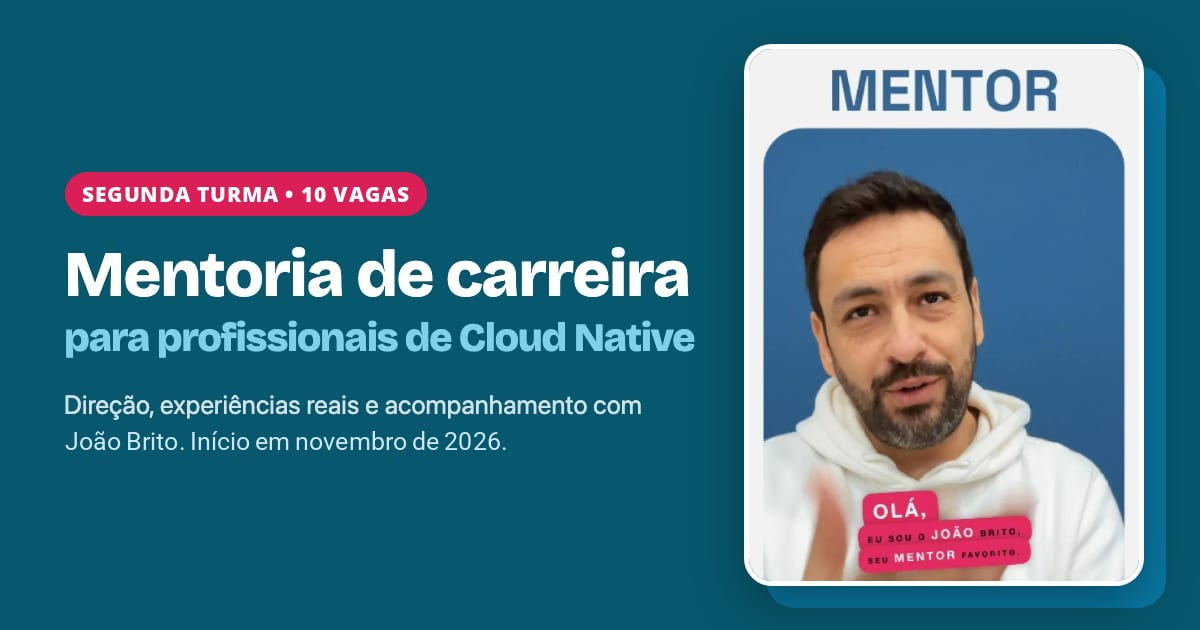
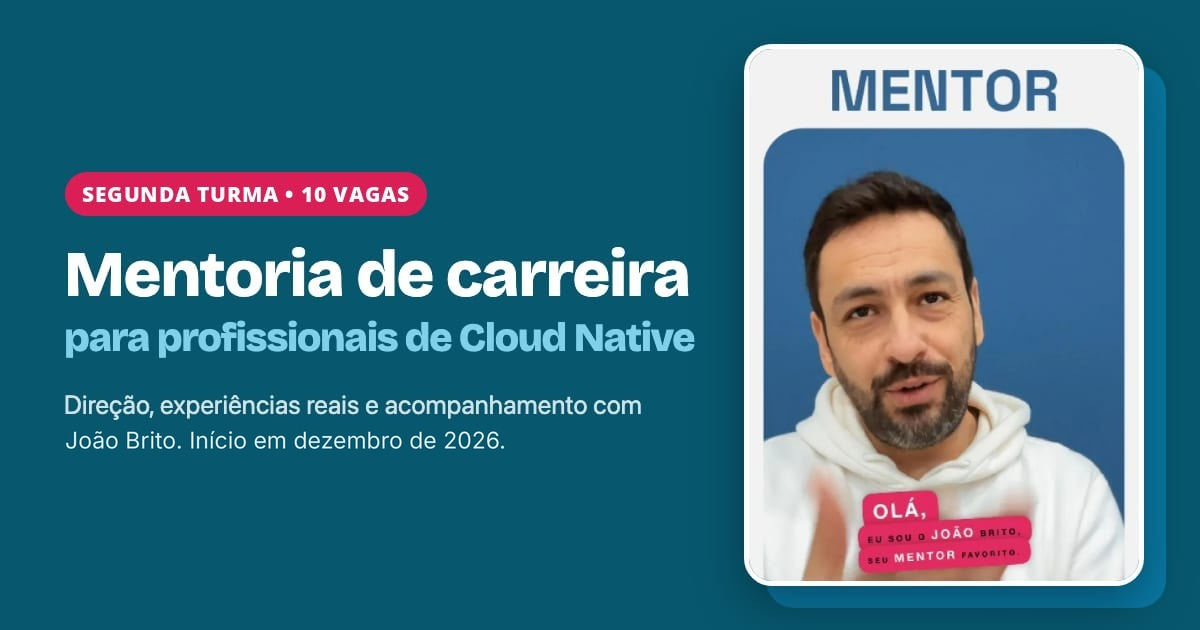
Atualiza início da turma para dezembro de 2026 e adiciona destaque 'use seu 13º' no hero
Claude-Session: https://claude.ai/code/session_01RDnXSMuXtrBCtLLWegom9J

Changed region(s): [[0.0617, 0.6635, 0.4317, 0.7238]]

diff --git a/index.html b/index.html
@@ -8,7 +8,7 @@
 <meta property="og:type" content="website">
 <meta property="og:url" content="https://juniorjbn.github.io/mentoria-cloud-native/">
 <meta property="og:title" content="Mentoria de Carreira para Profissionais de Cloud Native">
-<meta property="og:description" content="Direção, experiências reais e acompanhamento com João Brito. Segunda turma: 10 vagas, início em novembro de 2026.">
+<meta property="og:description" content="Direção, experiências reais e acompanhamento com João Brito. Segunda turma: 10 vagas, início em dezembro de 2026.">
 <meta property="og:image" content="https://juniorjbn.github.io/mentoria-cloud-native/img/og.jpg">
 <meta property="og:image:width" content="1200">
 <meta property="og:image:height" content="630">
@@ -24,7 +24,7 @@
 :root{--blue:#0978a3;--blue-dark:#07586f;--navy:#082a36;--pink:#ef2964;--pink-deep:#dc1e56;--cream:#f6f2e9;--paper:#fffdf8;--ink:#132028;--muted:#5e6a70;--line:#dce5e6;--cyan:#eaf7fa;--shadow:0 18px 50px rgba(8,42,54,.12);}
 *{box-sizing:border-box} html{scroll-behavior:smooth;scroll-padding-top:84px} body{margin:0;background:var(--cream);color:var(--ink);font-family:Inter,ui-sans-serif,system-ui,-apple-system,BlinkMacSystemFont,"Segoe UI",sans-serif;line-height:1.55} a{color:inherit} img{display:block;max-width:100%} img[width]{height:auto} .skel{background:linear-gradient(100deg,#dfe9ea 40%,#f2f7f8 50%,#dfe9ea 60%) 0 0/200% 100%;animation:skel 1.2s linear infinite} .skel.loaded{animation:none;background:none} @keyframes skel{to{background-position:-200% 0}} @media(prefers-reduced-motion:reduce){.skel{animation:none}} .wrap{width:min(1120px,calc(100% - 40px));margin:auto} .eyebrow{display:inline-flex;align-items:center;gap:8px;padding:7px 12px;border-radius:999px;background:var(--blue);color:#fff;font-size:.75rem;font-weight:800;letter-spacing:.08em;text-transform:uppercase} .eyebrow.pink{background:var(--pink)} h1,h2,h3,.price{font-family:"Bricolage Grotesque",Inter,ui-sans-serif,system-ui,sans-serif} h1,h2,h3{line-height:1.06;letter-spacing:-.02em;margin:0} h1{font-size:clamp(2.9rem,6.4vw,5.9rem)} h2{font-size:clamp(2rem,4.2vw,4rem)} h3{font-size:1.22rem} p{margin:0} .lead{font-size:clamp(1.08rem,1.7vw,1.38rem);color:var(--muted);max-width:760px} .section{padding:92px 0} .grid-2{display:grid;grid-template-columns:1.05fr .95fr;gap:64px;align-items:center} .card{background:var(--paper);border:1px solid var(--line);border-radius:22px;padding:24px;box-shadow:0 8px 28px rgba(8,42,54,.06)}
 nav{position:sticky;top:0;z-index:20;background:rgba(246,242,233,.9);backdrop-filter:blur(14px);border-bottom:1px solid rgba(8,42,54,.08)} nav .wrap{height:68px;display:flex;align-items:center;justify-content:space-between;gap:24px} .brand{font-weight:900;letter-spacing:-.03em} .brand b{color:var(--blue)} .navlinks{display:flex;gap:22px;align-items:center;font-size:.9rem;font-weight:700} .navlinks a{text-decoration:none} .navlinks a.active{color:var(--pink-deep)} .btn{display:inline-flex;align-items:center;justify-content:center;padding:14px 20px;border-radius:12px;background:var(--pink-deep);color:#fff;text-decoration:none;font-weight:850;border:0;box-shadow:0 10px 24px rgba(239,41,100,.22)} .btn.secondary{background:var(--blue)}
-.hero{padding:54px 0 74px;overflow:hidden} .hero-grid{display:grid;grid-template-columns:1.15fr .85fr;gap:48px;align-items:center} .hero h1 span{display:block;color:var(--blue);font-size:.53em;margin-top:10px} .hero .lead{margin:28px 0} .meta{display:grid;grid-template-columns:repeat(3,1fr);gap:12px;margin-top:28px} .meta .card{padding:18px;box-shadow:none} .meta b{display:block;color:var(--blue);font-size:1.2rem} .portrait{position:relative;max-width:480px;margin-left:auto} .portrait img{width:100%;border-radius:36px;box-shadow:var(--shadow)} .portrait:before{content:"";position:absolute;inset:26px -26px -26px 26px;background:var(--blue);border-radius:36px;z-index:-1} .quote{background:var(--blue-dark);color:#fff} .quote h2{max-width:920px} .quote .highlight{display:inline-block;background:var(--pink);padding:12px 18px;border-radius:12px;margin-top:28px;font-size:clamp(1.2rem,2.2vw,2rem);font-weight:900}
+.hero{padding:54px 0 74px;overflow:hidden} .hero-grid{display:grid;grid-template-columns:1.15fr .85fr;gap:48px;align-items:center} .hero h1 span{display:block;color:var(--blue);font-size:.53em;margin-top:10px} .hero .lead{margin:28px 0} .meta{display:grid;grid-template-columns:repeat(3,1fr);gap:12px;margin-top:28px} .meta .card{padding:18px;box-shadow:none} .meta b{display:block;color:var(--blue);font-size:1.2rem}.has-doodle{position:relative}.has-doodle .doodle{position:absolute;right:10px;top:-74px;width:190px;height:96px;display:block;pointer-events:none;color:#ec3a1c;z-index:2}.doodle svg{width:100%;height:100%;overflow:visible;display:block}.doodle path{fill:none;stroke:currentColor;stroke-width:2.4;stroke-linecap:round;stroke-linejoin:round;stroke-dasharray:1;stroke-dashoffset:1;animation:doodle .7s ease-out .5s forwards}.doodle path.d2{animation-delay:1.15s;animation-duration:.6s}.doodle em{position:absolute;left:-18px;top:-8px;font-style:normal;font-weight:700;font-size:1.3rem;line-height:1;white-space:nowrap;transform:rotate(-6deg);font-family:"Bradley Hand","Segoe Print","Segoe Script","Noto Sans Display","Comic Sans MS",cursive;opacity:0;animation:doodle-in .4s ease-out 1.6s forwards}@keyframes doodle{to{stroke-dashoffset:0}}@keyframes doodle-in{to{opacity:1}}@media(max-width:560px){.has-doodle .doodle{width:140px;height:72px;top:-54px;right:6px}.doodle em{font-size:1.05rem;left:-8px}}@media(prefers-reduced-motion:reduce){.doodle path{animation:none;stroke-dashoffset:0}.doodle em{animation:none;opacity:1}} .portrait{position:relative;max-width:480px;margin-left:auto} .portrait img{width:100%;border-radius:36px;box-shadow:var(--shadow)} .portrait:before{content:"";position:absolute;inset:26px -26px -26px 26px;background:var(--blue);border-radius:36px;z-index:-1} .quote{background:var(--blue-dark);color:#fff} .quote h2{max-width:920px} .quote .highlight{display:inline-block;background:var(--pink);padding:12px 18px;border-radius:12px;margin-top:28px;font-size:clamp(1.2rem,2.2vw,2rem);font-weight:900}
 .problem-list{display:grid;gap:12px;margin-top:28px} .problem{display:flex;gap:14px;align-items:flex-start;padding:16px;background:#fff;border-radius:14px;border:1px solid var(--line)} .num{width:28px;height:28px;flex:0 0 28px;border-radius:50%;display:grid;place-items:center;background:var(--pink-deep);color:white;font-weight:900;font-size:.8rem} .three{display:grid;grid-template-columns:repeat(3,1fr);gap:18px;margin-top:34px} .three .card:nth-child(2){background:var(--blue);color:#fff} .three .card:nth-child(2) p{color:#dcedf2} .three p{color:var(--muted);margin-top:10px}
 .deliverables{display:grid;grid-template-columns:repeat(2,1fr);gap:0 56px;margin-top:26px} .deliverable{border-top:1px solid #cfd9da;padding:22px 0} .deliverable p{font-size:.95rem;color:var(--muted);margin-top:6px}
 .blue-soft{background:var(--cyan)} .agenda-fx{position:relative;overflow:hidden} .agenda-fx canvas{position:absolute;inset:0;width:100%;height:100%;display:block} .agenda-fx .wrap{position:relative;z-index:1} .ninety{width:190px;height:190px;border-radius:50%;background:var(--pink);color:#fff;display:grid;place-items:center;text-align:center;margin:auto;box-shadow:0 18px 50px rgba(239,41,100,.24)} .ninety strong{display:block;font-size:4rem;line-height:.8} .checks{display:grid;grid-template-columns:1fr 1fr;gap:12px} .check{padding:12px 14px;background:#fff;border-radius:12px;border:1px solid var(--line)} .weeks{display:grid;grid-template-columns:1fr 1fr;gap:14px;margin-top:34px} .week{display:grid;grid-template-columns:36px 1fr;gap:12px;align-items:start} .week .num{background:var(--blue)}
@@ -38,7 +38,7 @@ nav{position:sticky;top:0;z-index:20;background:rgba(246,242,233,.9);backdrop-fi
 </head>
 <body>
 <nav><div class="wrap"><div class="brand">Mentoria <b>Cloud Native</b></div><div class="navlinks"><a href="#programa">Programa</a><a href="#planos">Planos</a><a href="#mentor">Mentor</a><a class="btn" href="#planos">Quero participar</a></div></div></nav>
-<header class="hero"><div class="wrap hero-grid"><div><span class="eyebrow">Segunda turma • 10 vagas</span><h1>Mentoria de carreira <span>para profissionais de Cloud Native</span></h1><p class="lead">Direção, experiências reais e acompanhamento para profissionais que querem dar o próximo passo além dos cursos técnicos.</p><a class="btn" href="#mentoria">Conhecer a mentoria</a></div><div class="portrait"><img src="img/hero.webp" alt="João Brito, mentor" width="960" height="1707" fetchpriority="high" class="skel"></div><div class="meta" style="grid-column:1/-1"><div class="card"><b>Novembro de 2026</b><span>Início dos encontros em grupo</span></div><div class="card"><b>8 semanas</b><span>Encontros em grupo semanais</span></div><div class="card"><b>19h</b><span>Google Meet, 1h30</span></div></div></div></header>
+<header class="hero"><div class="wrap hero-grid"><div><span class="eyebrow">Segunda turma • 10 vagas</span><h1>Mentoria de carreira <span>para profissionais de Cloud Native</span></h1><p class="lead">Direção, experiências reais e acompanhamento para profissionais que querem dar o próximo passo além dos cursos técnicos.</p><a class="btn" href="#mentoria">Conhecer a mentoria</a></div><div class="portrait"><img src="img/hero.webp" alt="João Brito, mentor" width="960" height="1707" fetchpriority="high" class="skel"></div><div class="meta" style="grid-column:1/-1"><div class="card has-doodle"><span class="doodle" aria-hidden="true"><svg viewBox="0 0 190 96" focusable="false"><path class="d1" pathLength="1" d="M6 38 L54 90 C86 58 124 30 184 20"/><path class="d2" pathLength="1" d="M58 44 c4-12 10-10 12-3 c3-10 11-9 12-2 c4-11 11-9 13-2 c4-11 12-9 14-3 c5-9 12-9 16-6"/></svg><em>use seu 13º</em></span><b>Dezembro de 2026</b><span>Início dos encontros em grupo</span></div><div class="card"><b>8 semanas</b><span>Encontros em grupo semanais</span></div><div class="card"><b>19h</b><span>Google Meet, 1h30</span></div></div></div></header>
 <section class="section"><div class="wrap grid-2"><div><h2>Você já aprendeu ferramentas. E agora?</h2><p class="lead" style="margin-top:22px">Você entrega, resolve problemas e participa de projetos. Ainda assim, pode ser difícil enxergar qual deve ser o próximo movimento da sua carreira.</p></div><div class="problem-list"><div class="problem"><span>Qual deveria ser o próximo passo da minha carreira?</span></div><div class="problem"><span>Estou realmente preparado para atuar como sênior?</span></div><div class="problem"><span>Devo me especializar ou ampliar minha atuação?</span></div><div class="problem"><span>Como transformar experiência técnica em reconhecimento?</span></div><div class="problem"><span>Como participar mais das decisões, e não apenas executá-las?</span></div></div></div></section>
 <section class="section quote"><div class="wrap"><h2>A diferença entre um profissional pleno e um profissional disputado pelo mercado raramente está na ferramenta que ele conhece.</h2><div class="highlight">Está na forma como ele toma decisões.</div><p style="margin-top:24px;max-width:850px;color:#d4e5ea">Ferramentas mudam. Arquiteturas mudam. O mercado muda. A maturidade aparece na forma como você analisa contexto, riscos, impacto e restrições, e comunica decisões melhores.</p></div></section>
 <section id="mentoria" class="section"><div class="wrap"><h2>Uma mentoria construída para a sua carreira</h2><p class="lead" style="margin-top:20px">Não é uma sequência de aulas gravadas nem um curso dividido em módulos. O trabalho começa pela compreensão do seu momento profissional.</p><div class="three"><div class="card"><h3>Onde você está</h3><p>Diagnóstico do momento atual, experiências, competências e limitações.</p></div><div class="card"><h3>Onde quer chegar</h3><p>Definição de objetivos claros e compatíveis com a sua realidade.</p></div><div class="card"><h3>Como reduzir a distância</h3><p>Plano de desenvolvimento com prioridades, critérios e ações.</p></div></div></div></section>
@@ -50,7 +50,7 @@ nav{position:sticky;top:0;z-index:20;background:rgba(246,242,233,.9);backdrop-fi
 <section class="section"><div class="wrap grid-2"><div><h2>Para quem é esta mentoria</h2><div class="audience"><div class="aud">Atua como DevOps, SRE, DevSecOps, Platform Engineer, Cloud Engineer ou infraestrutura.</div><div class="aud">Possui experiência prática e quer dar o próximo passo.</div><div class="aud">Conhece ferramentas, mas precisa organizar competências em uma direção clara.</div><div class="aud">Quer desenvolver profundidade sem perder visão sistêmica.</div><div class="aud">Busca melhorar comunicação, influência e posicionamento.</div></div></div><div class="card"><h3>O perfil principal</h3><p class="lead" style="font-size:1.08rem;margin-top:12px">Profissionais desde Sandy/Junior até Sêniors, independente do tempo de carreira, mas que querem mais clareza e direção para evoluir.</p><div style="margin-top:20px;padding:16px;background:var(--cyan);border-radius:12px"><b>Não é necessário dominar todas as áreas de Cloud Native.</b><br>É necessário participar, engajar, compartilhar experiências e trabalhar ativamente no próprio desenvolvimento.</div></div></div></section>
 <section class="section not"><div class="wrap"><span class="eyebrow pink">Transparência</span><h2 style="margin-top:18px">O que esta mentoria não é</h2><div class="not-list"><div class="not-item">Não é uma mentoria para aprender comandos de Kubernetes.</div><div class="not-item">Não é um curso técnico disfarçado de mentoria.</div><div class="not-item">Não é uma mentoria de coach pré-formatada.</div><div class="not-item">Não é uma palestra motivacional dividida em oito semanas.</div><div class="not-item">Não é um roteiro genérico aplicado da mesma forma a todas as pessoas.</div><div class="not-item">Não promete emprego, promoção, aumento ou mudança automática de senioridade.</div></div><div class="card" style="margin-top:26px;background:var(--blue);border:0;color:white"><h3>O que a mentoria oferece</h3><p style="margin-top:8px;color:#d9edf2">Direção, repertório, critérios, acompanhamento e acesso a experiências que podem ajudar você a tomar decisões melhores.</p></div></div></section>
 <section id="planos" class="section"><div class="wrap"><span class="eyebrow">Investimento</span><h2 style="margin-top:18px">Escolha o formato adequado ao seu momento</h2><div class="plans"><article class="card plan"><h3>Mentoria em Grupo</h3><div class="price"><s class="old">R$ 3.000</s><span>R$ 2.500</span></div><small>8 encontros em grupo</small><ul><li>Turma com até 10 participantes</li><li>Todos os entregáveis</li><li>Acesso permanente ao Slack</li></ul><a class="btn secondary" href="https://mpago.la/115kKq1" target="_blank" rel="noopener">Comprar Agora</a></article><article class="card plan"><span class="ribbon">Mais escolhido</span><h3>Mentoria Híbrida</h3><div class="price"><s class="old">R$ 5.000</s><span>R$ 4.500</span></div><small>Grupo + 2 encontros individuais</small><ul><li>Tudo da mentoria em grupo</li><li>2 encontros one-on-one</li><li>Discussões privadas</li><li>Acompanhamento mais próximo do PDI</li></ul><a class="btn" href="https://mpago.la/2eEAnaP" target="_blank" rel="noopener">Comprar Agora</a></article><article class="card plan featured"><h3>Mentoria Individual</h3><div class="price"><s class="old">R$ 9.000</s><span>R$ 8.500</span></div><small>8 encontros one-on-one</small><ul><li>Plano totalmente direcionado</li><li>Acompanhamento próximo por 2 meses</li><li>Todos os entregáveis</li><li>Acesso permanente ao Slack</li></ul><a class="btn" href="https://mpago.la/1bfiHMZ" target="_blank" rel="noopener">Comprar Agora</a></article></div><p style="text-align:center;margin-top:22px;color:var(--muted)">Pagamento à vista ou parcelado no cartão. Nota fiscal incluída.</p></div></section>
-<section id="agenda" class="section blue-soft agenda-fx"><canvas id="prism" aria-hidden="true"></canvas><div class="wrap"><h2>Informações da segunda turma</h2><div class="info-grid"><div class="card info"><span>Início dos encontros em grupo</span><b>Novembro de 2026</b></div><div class="card info"><span>Encontros em grupo</span><b>19h, dia da semana a definir</b></div><div class="card info"><span>Encontros individuais</span><b>Definidos com cada participante, conforme disponibilidade</b></div><div class="card info"><span>Duração</span><b>8 semanas, 1h30 cada</b></div><div class="card info"><span>Formato</span><b>On-line, Google Meet</b></div><div class="card info"><span>Comunidade</span><b>Slack com acesso permanente</b></div></div></div></section>
+<section id="agenda" class="section blue-soft agenda-fx"><canvas id="prism" aria-hidden="true"></canvas><div class="wrap"><h2>Informações da segunda turma</h2><div class="info-grid"><div class="card info"><span>Início dos encontros em grupo</span><b>Dezembro de 2026</b></div><div class="card info"><span>Encontros em grupo</span><b>19h, dia da semana a definir</b></div><div class="card info"><span>Encontros individuais</span><b>Definidos com cada participante, conforme disponibilidade</b></div><div class="card info"><span>Duração</span><b>8 semanas, 1h30 cada</b></div><div class="card info"><span>Formato</span><b>On-line, Google Meet</b></div><div class="card info"><span>Comunidade</span><b>Slack com acesso permanente</b></div></div></div></section>
 <section class="section"><div class="wrap"><h2>Como funciona o processo de seleção</h2><p class="lead" style="margin-top:20px">A segunda turma será formada a partir do perfil das pessoas interessadas.</p><div class="steps"><div class="card step"><span class="num">1</span><h3>Candidatura</h3><p>Preencha o formulário com seu momento e objetivos.</p></div><div class="card step"><span class="num" style="background:var(--pink)">2</span><h3>Análise</h3><p>Seu perfil será avaliado em relação à proposta da turma.</p></div><div class="card step"><span class="num">3</span><h3>Inscrição</h3><p>Após aprovação, você recebe as informações de pagamento.</p></div></div><a class="placeholder" href="https://wa.me/5511933181077?text=Ol%C3%A1%2C%20quero%20me%20inscrever%20para%20a%20mentoria%20Cloud%20Native%20e%20gostaria%20de%20informa%C3%A7%C3%B5es%20para%20pagamento.">Inscreva-se agora, são apenas 10 vagas!</a></div></section>
 <section class="section blue-soft"><div class="wrap"><h2>Perguntas frequentes</h2><div class="faq"><details><summary>Posso parcelar o pagamento?</summary><p>Sim. O pagamento pode ser à vista ou parcelado no cartão de crédito, sempre com nota fiscal. Os detalhes são combinados na etapa de inscrição.</p></details><details><summary>E se eu perder um encontro?</summary><p>Os encontros em grupo ocorrem exclusivamente ao vivo. Teremos uma agenda pública fechada antes de iniciar o programa. Por ser um programa personalizado, não será gravado, e a experiência exige que seja síncrona.</p></details><details><summary>Existe política de reembolso?</summary><p>Sim. Cancelamentos até 7 dias antes do primeiro encontro têm devolução integral. Após o início da turma, devido ao trabalho necessário e às vagas exclusivas, não existe reembolso.</p></details><details><summary>Preciso dominar Kubernetes ou todas as áreas de Cloud Native?</summary><p>Não. É necessário ter experiência prática na área e disposição para participar, compartilhar experiências e trabalhar ativamente no próprio desenvolvimento.</p></details><details><summary>Como funciona a seleção?</summary><p>Você preenche o formulário de candidatura, seu perfil é analisado em relação à proposta da turma e, após a aprovação, você recebe as informações de pagamento.</p></details><details><summary>Por que apenas dez vagas?</summary><p>Os formatos em grupo e híbrido têm dez vagas para preservar espaço de fala, discussão e acompanhamento individual dentro dos encontros.</p></details></div></div></section>
 <footer id="inscricao"><div class="wrap"><div class="cta"><div><span class="eyebrow pink">Próximo passo</span><h2 style="margin-top:18px">Sua carreira não precisa ser conduzida apenas pelas demandas que aparecem no próximo sprint.</h2><p style="margin-top:20px;color:#cfe1e7;max-width:740px">Você pode desenvolver uma visão mais clara sobre onde está, quais competências precisa construir e quais decisões podem aproximar você do profissional que deseja se tornar.</p><div class="contact"><a href="https://wa.me/5511933181077?text=Ol%C3%A1%2C%20eu%20gostaria%20de%20mais%20informa%C3%A7%C3%B5es%20sobre%20a%20mentoria%20de%20Cloud%20Native%2C%20com%20Jo%C3%A3o%20Brito."><b>WhatsApp:</b> (+55) 11 93318-1077</a><a href="mailto:mentoria@neuropsidnausp.com.br"><b>E-mail:</b> mentoria@neuropsidnausp.com.br</a></div><div style="margin-top:28px"><a class="btn" style="font-size:1.2rem;padding:20px 34px;border-radius:14px" href="https://wa.me/5511933181077?text=Ol%C3%A1%2C%20quero%20me%20inscrever%20para%20a%20mentoria%20Cloud%20Native%20e%20gostaria%20de%20informa%C3%A7%C3%B5es%20para%20pagamento.">Quero me inscrever</a></div></div><img class="mentor-small skel" src="img/poster.webp" alt="João Brito, seu mentor favorito" width="600" height="1066" loading="lazy"></div><div class="fine">Mentoria de Carreira para Profissionais de Cloud Native • João Brito • Todos os direitos reservados</div></div></footer>

diff --git a/README.md b/README.md
@@ -1,6 +1,6 @@
 # Mentoria de carreira
 
-![Mentoria de carreira para profissionais de Cloud Native — segunda turma, 10 vagas, início em novembro de 2026](img/og.jpg)
+![Mentoria de carreira para profissionais de Cloud Native — segunda turma, 10 vagas, início em dezembro de 2026](img/og.jpg)
 
 ## para profissionais de Cloud Native
 
